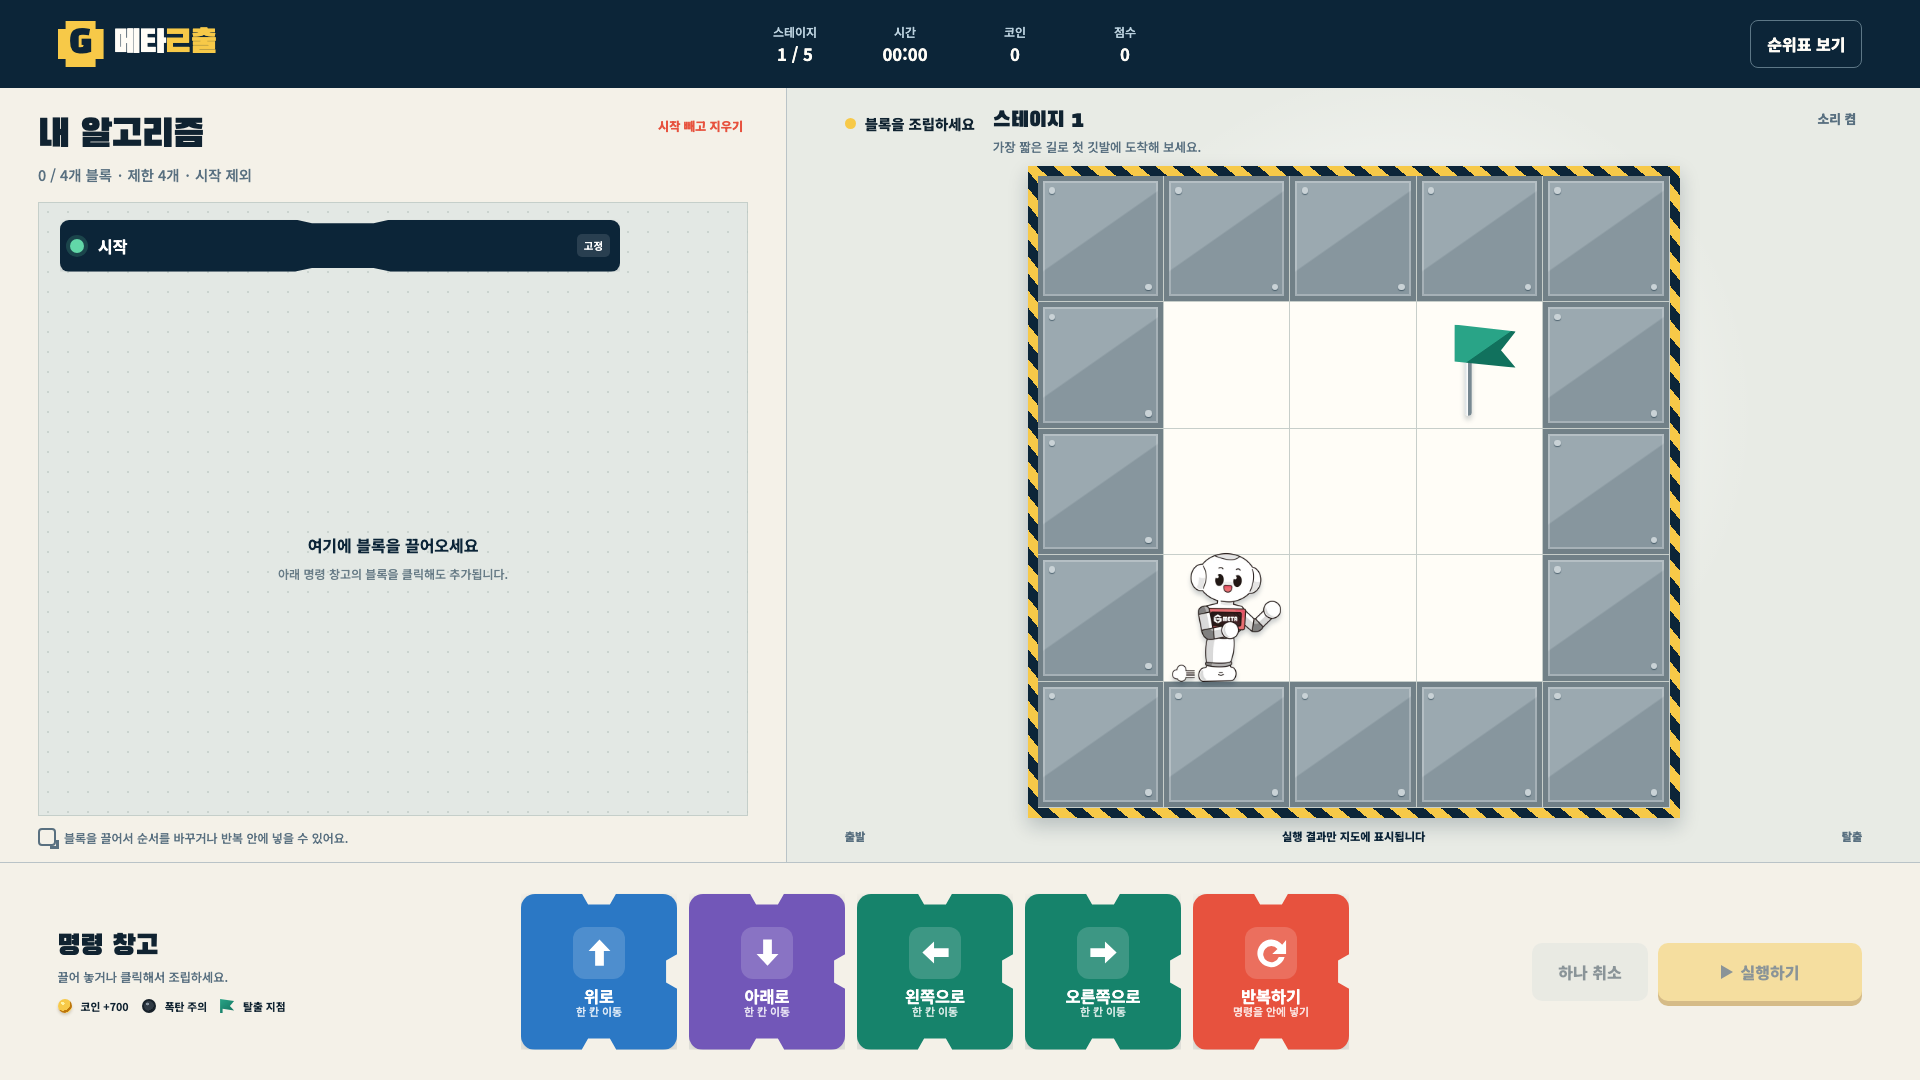
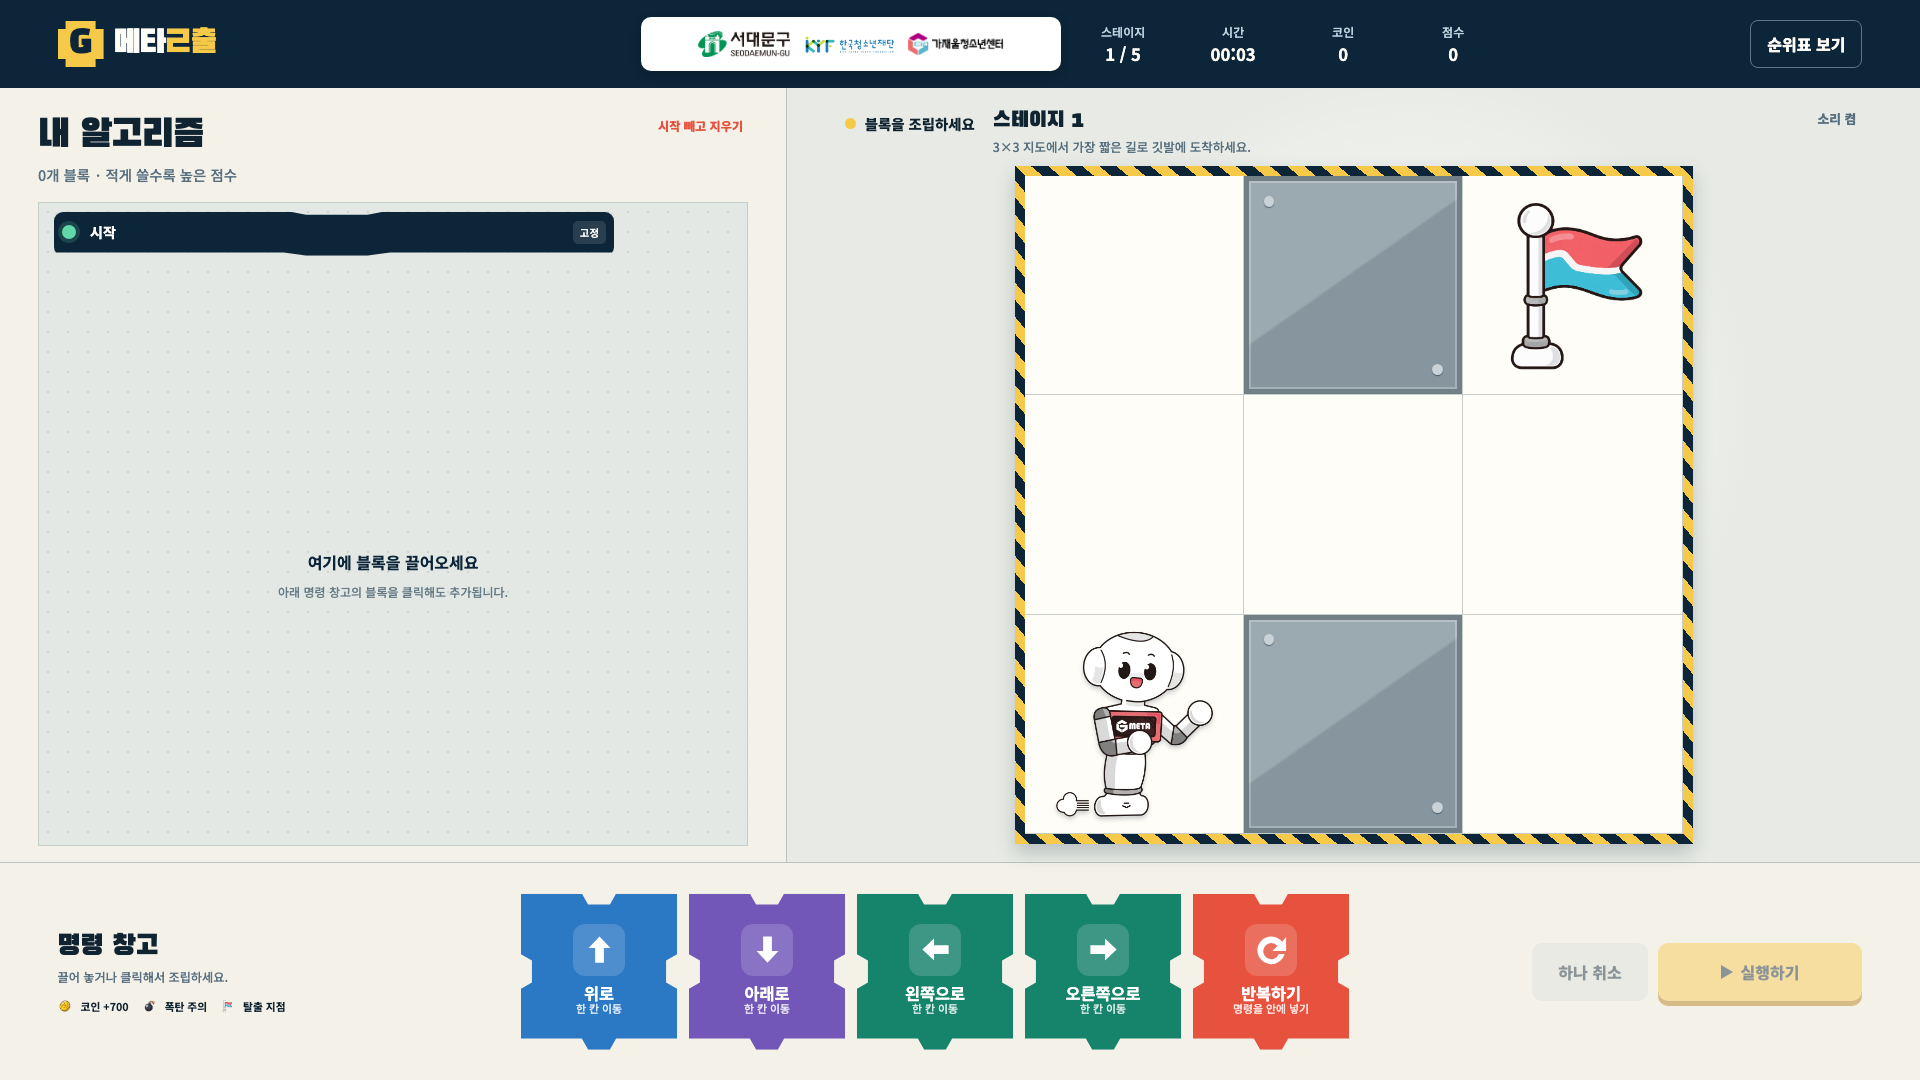
Remove stage block limits

diff --git a/public/game.html b/public/game.html
@@ -11,7 +11,7 @@ FINISH: unreviewed and undocumented is unfinished; this build ends with the fini
 -->
 <header class="scorebar"><a class="brand" href="/" aria-label="G메타ㄹ출 메인으로"><span class="brand-mark" aria-hidden="true">G</span><span class="brand-wordmark" aria-hidden="true">메타<em>ㄹ출</em></span></a><div class="game-partners" aria-label="기관 로고"><img src="/assets/partners/seodaemun-gu.png" alt="서대문구"><img src="/assets/partners/korea-youth-foundation.png" alt="한국청소년재단"><img src="/assets/partners/gmeta-career-network.jpg" alt="G-META 가재울청소년센터"></div><div class="race-stats" aria-label="현재 경기 정보"><span><small>스테이지</small><strong id="stageLabel">1 / 5</strong></span><span><small>시간</small><strong id="timeLabel">00:00</strong></span><span><small>코인</small><strong id="coinLabel">0</strong></span><span><small>점수</small><strong id="scoreLabel">0</strong></span></div><button class="leader-button" id="leaderButton" type="button">순위표 보기</button></header>
 <main class="workspace coding-workspace">
-  <section class="program-panel" aria-labelledby="programTitle"><div class="program-head"><div><h1 id="programTitle">내 알고리즘</h1><p><span id="blockCount">0</span>개 블록 · <span id="limitText">제한 확인 중</span></p></div><button id="clearButton" class="text-button" type="button">시작 빼고 지우기</button></div><div class="coding-canvas"><ol id="programList" class="program-list" aria-live="polite" aria-label="알고리즘 조립 영역"></ol><p id="emptyProgram" class="empty-program"><strong>여기에 블록을 끌어오세요</strong><span>아래 명령 창고의 블록을 클릭해도 추가됩니다.</span></p></div></section>
+  <section class="program-panel" aria-labelledby="programTitle"><div class="program-head"><div><h1 id="programTitle">내 알고리즘</h1><p><span id="blockCount">0개</span> 블록 · <span id="limitText">적게 쓸수록 높은 점수</span></p></div><button id="clearButton" class="text-button" type="button">시작 빼고 지우기</button></div><div class="coding-canvas"><ol id="programList" class="program-list" aria-live="polite" aria-label="알고리즘 조립 영역"></ol><p id="emptyProgram" class="empty-program"><strong>여기에 블록을 끌어오세요</strong><span>아래 명령 창고의 블록을 클릭해도 추가됩니다.</span></p></div></section>
   <section class="map-panel" aria-label="게임 지도"><div class="map-topline"><div><span class="route-status"><i></i><span id="statusText">블록을 조립하세요</span></span><strong id="missionTitle">스테이지 1</strong><p id="missionText">가장 짧은 길로 첫 깃발에 도착해 보세요.</p></div><button class="sound-toggle" id="soundToggle" type="button" aria-pressed="true">소리 켬</button></div><div id="gameGrid" class="game-grid" role="grid" aria-label="폭탄과 코인이 있는 격자 지도"></div></section>
   <section class="command-bay command-dock" aria-labelledby="commandTitle"><div class="dock-heading"><h2 id="commandTitle">명령 창고</h2><p>끌어 놓거나 클릭해서 조립하세요.</p><div class="legend" aria-label="지도 기호"><span><i class="legend-coin"></i>코인 +700</span><span><i class="legend-bomb"></i>폭탄 주의</span><span><i class="legend-flag"></i>탈출 지점</span></div></div><div class="command-list"><button class="command move-up" data-move="up" draggable="true"><span class="command-icon" aria-hidden="true"><svg class="command-symbol" viewBox="0 0 48 48"><path d="M24 6 9 22h9v20h12V22h9L24 6Z"/></svg></span><span><b>위로</b><small>한 칸 이동</small></span></button><button class="command move-down" data-move="down" draggable="true"><span class="command-icon" aria-hidden="true"><svg class="command-symbol" viewBox="0 0 48 48"><path d="m24 42 15-16h-9V6H18v20H9l15 16Z"/></svg></span><span><b>아래로</b><small>한 칸 이동</small></span></button><button class="command move-left" data-move="left" draggable="true"><span class="command-icon" aria-hidden="true"><svg class="command-symbol" viewBox="0 0 48 48"><path d="M6 24 22 9v9h20v12H22v9L6 24Z"/></svg></span><span><b>왼쪽으로</b><small>한 칸 이동</small></span></button><button class="command move-right" data-move="right" draggable="true"><span class="command-icon" aria-hidden="true"><svg class="command-symbol" viewBox="0 0 48 48"><path d="m42 24-16-15v9H6v12h20v9l16-15Z"/></svg></span><span><b>오른쪽으로</b><small>한 칸 이동</small></span></button><button class="command repeat-command" id="repeatButton" draggable="true"><span class="command-icon repeat-icon-symbol" aria-hidden="true"><svg class="command-symbol repeat-symbol-svg" viewBox="0 0 48 48"><path d="M38.7 13.5A19 19 0 1 0 42 30h-8a11 11 0 1 1-1.8-10.7L25 26h19V7l-5.3 6.5Z"/></svg></span><span><b>반복하기</b><small>명령을 안에 넣기</small></span></button></div><div class="program-actions"><button id="undoButton" class="undo-button" type="button" disabled>하나 취소</button><button id="runButton" class="run-button" type="button" disabled><span class="play-mark" aria-hidden="true"></span>실행하기</button></div></section>
 </main>

diff --git a/public/app.js b/public/app.js
@@ -25,11 +25,6 @@ function expandProgram(){
   return result;
 }
 
-function canAdd(amount=1){
-  if(sourceBlockCount()+amount<=stage().limit)return true;
-  toast(`이 스테이지는 블록을 ${stage().limit}개까지만 쓸 수 있어요.`);return false;
-}
-
 function resetPlayer(){const[r,c]=stage().start;player={r,c};collected=new Set()}
 
 function renderGrid(){
@@ -88,7 +83,7 @@ function endDrag(event){
 
 function takeMove(payload){
   if(!payload)return null;
-  if(payload.origin==="palette")return payload.type==="move"&&canAdd()?{type:"move",dir:payload.dir}:null;
+  if(payload.origin==="palette")return payload.type==="move"?{type:"move",dir:payload.dir}:null;
   if(payload.origin==="program"){
     const node=program[payload.index];if(node?.type!=="move")return null;program.splice(payload.index,1);return node;
   }
@@ -102,7 +97,7 @@ function dropAtProgram(event,insertIndex){
   event.preventDefault();event.stopPropagation();const payload=readDrag(event);if(!payload||running)return endDrag();
   let node;
   if(payload.origin==="palette"){
-    if(!canAdd())return endDrag();node=payload.type==="repeat"?{type:"repeat",count:2,body:[]}:{type:"move",dir:payload.dir};
+    node=payload.type==="repeat"?{type:"repeat",count:2,body:[]}:{type:"move",dir:payload.dir};
   }else if(payload.origin==="program"){
     node=program[payload.index];if(!node)return endDrag();program.splice(payload.index,1);if(payload.index<insertIndex)insertIndex--;
   }else node=takeMove(payload);
@@ -169,14 +164,14 @@ function renderProgram(){
   programList.querySelectorAll(".repeat-head").forEach(head=>head.onclick=()=>{const node=program[Number(head.closest(".repeat-block").dataset.index)];openRepeat=openRepeat===node?null:node;renderProgram()});
 
   const used=sourceBlockCount(),valid=expandProgram().length>0&&!program.some(node=>node.type==="repeat"&&!node.body.length);
-  el("blockCount").textContent=`${used} / ${stage().limit}`;el("emptyProgram").hidden=program.length>0;
+  el("blockCount").textContent=`${used}개`;el("emptyProgram").hidden=program.length>0;
   el("runButton").disabled=!valid||running;el("undoButton").disabled=!program.length||running;
   el("repeatButton").classList.remove("active");el("repeatButton").querySelector("b").textContent="반복하기";
-  el("limitText").textContent=`제한 ${stage().limit}개 · 시작 제외`;
+  el("limitText").textContent="적게 쓸수록 높은 점수";
 }
 
-function addMove(dir){if(running||!canAdd())return;const move={type:"move",dir};if(openRepeat)openRepeat.body.push(move);else program.push(move);renderProgram();playSound("block")}
-function addRepeat(){if(running||!canAdd())return;openRepeat={type:"repeat",count:2,body:[]};program.push(openRepeat);renderProgram();playSound("block")}
+function addMove(dir){if(running)return;const move={type:"move",dir};if(openRepeat)openRepeat.body.push(move);else program.push(move);renderProgram();playSound("block")}
+function addRepeat(){if(running)return;openRepeat={type:"repeat",count:2,body:[]};program.push(openRepeat);renderProgram();playSound("block")}
 function setStatus(text,state=""){el("statusText").textContent=text;el("statusText").parentElement.className=`route-status ${state}`}
 function blocked(r,c){const current=stage();return r<0||c<0||r>=current.rows||c>=current.cols||current.walls.some(([a,b])=>a===r&&b===c)}
 

diff --git a/public/stages.js b/public/stages.js
@@ -5,9 +5,9 @@ const borderWalls = [
 ];
 
 export const stages = [
-  { title:"스테이지 1", text:"가장 짧은 길로 첫 깃발에 도착해 보세요.", limit:4, cols:5, rows:5, start:[3,1], flag:[1,3], walls:borderWalls, bombs:[], coins:[] },
-  { title:"스테이지 2", text:"폭탄을 피해 코인을 챙기고 깃발로 이동하세요.", limit:4, cols:5, rows:5, start:[3,1], flag:[1,2], walls:borderWalls, bombs:[[2,2]], coins:[[2,1]] },
-  { title:"스테이지 3", text:"세 코인을 잇는 안전한 지그재그 경로를 찾아보세요.", limit:6, cols:4, rows:4, start:[3,0], flag:[0,3], walls:[], bombs:[[0,1],[1,0]], coins:[[0,2],[1,1],[2,0]] },
-  { title:"스테이지 4", text:"반복 블록을 활용해 멀리 돌아가는 경로를 줄여보세요.", limit:8, cols:4, rows:4, start:[3,0], flag:[0,2], walls:[], bombs:[[1,1],[2,1],[2,3]], coins:[[0,0],[1,2],[3,1]] },
-  { title:"스테이지 5", text:"마지막 폭탄 지대를 돌파하고 코인과 함께 탈출하세요.", limit:10, cols:5, rows:5, start:[4,0], flag:[4,4], walls:[], bombs:[[1,1],[2,2],[3,3],[4,2]], coins:[[0,1],[0,4],[2,3]], note:"원본 배치에서 시작점 바로 위 폭탄은 탈출 경로 확보를 위해 제외했습니다." }
+  { title:"스테이지 1", text:"가장 짧은 길로 첫 깃발에 도착해 보세요.", idealBlocks:4, cols:5, rows:5, start:[3,1], flag:[1,3], walls:borderWalls, bombs:[], coins:[] },
+  { title:"스테이지 2", text:"폭탄을 피해 코인을 챙기고 깃발로 이동하세요.", idealBlocks:4, cols:5, rows:5, start:[3,1], flag:[1,2], walls:borderWalls, bombs:[[2,2]], coins:[[2,1]] },
+  { title:"스테이지 3", text:"세 코인을 잇는 안전한 지그재그 경로를 찾아보세요.", idealBlocks:6, cols:4, rows:4, start:[3,0], flag:[0,3], walls:[], bombs:[[0,1],[1,0]], coins:[[0,2],[1,1],[2,0]] },
+  { title:"스테이지 4", text:"반복 블록을 활용해 멀리 돌아가는 경로를 줄여보세요.", idealBlocks:8, cols:4, rows:4, start:[3,0], flag:[0,2], walls:[], bombs:[[1,1],[2,1],[2,3]], coins:[[0,0],[1,2],[3,1]] },
+  { title:"스테이지 5", text:"마지막 폭탄 지대를 돌파하고 코인과 함께 탈출하세요.", idealBlocks:10, cols:5, rows:5, start:[4,0], flag:[4,4], walls:[], bombs:[[1,1],[2,2],[3,3],[4,2]], coins:[[0,1],[0,4],[2,3]], note:"원본 배치에서 시작점 바로 위 폭탄은 탈출 경로 확보를 위해 제외했습니다." }
 ];

diff --git a/public/home.js b/public/home.js
@@ -23,6 +23,6 @@ stages.forEach((stage,index)=>{
     if(stage.start[0]===r&&stage.start[1]===c)cell.classList.add("start");
     board.append(cell);
   }
-  item.innerHTML=`<div class="ticket-label"><span>${index+1}</span><strong>${stage.title}</strong><small>최대 ${stage.limit}블록</small></div>`;
+  item.innerHTML=`<div class="ticket-label"><span>${index+1}</span><strong>${stage.title}</strong><small>최소 ${stage.idealBlocks}블록 도전</small></div>`;
   item.append(board);previews.append(item);
 });

diff --git a/HANDOFF.md b/HANDOFF.md
@@ -13,7 +13,7 @@
 - 명령 블록 클릭 추가 및 드래그 앤 드롭 지원
 - 명령 순서 변경과 반복 블록 내부 삽입 지원
 - ㄷ자 반복 블록과 2~6회 반복 횟수 조절 지원
-- 스테이지별 블록 개수 제한 적용
+- 스테이지별 블록 개수 제한 없이 자유롭게 조립 가능
 - 실제 실행 전 경로 미표시
 - 폭탄·벽 충돌, 코인 획득, 깃발 도착 판정 구현
 - 서버 재검증 기반 채점과 순위표 등록 구현
@@ -39,13 +39,13 @@
 
 ## 4. 스테이지 규칙
 
-| 스테이지 | 지도 | 블록 제한 | 주요 구성 |
+| 스테이지 | 지도 | 최소 블록 도전 | 주요 구성 |
 |---|---:|---:|---|
-| 1 | 중앙 3×3 + 외곽 벽, 전체 5×5 | 4 | 이동 학습 |
-| 2 | 중앙 3×3 + 외곽 벽, 전체 5×5 | 4 | 코인 1개, 폭탄 1개 |
-| 3 | 4×4 | 6 | 코인 3개, 폭탄 2개 |
-| 4 | 4×4 | 8 | 코인 3개, 폭탄 3개 |
-| 5 | 5×5 | 10 | 코인 3개, 폭탄 4개 |
+| 1 | 3×3 | 4 | 이동 학습 |
+| 2 | 3×3 | 5 | 코인 2개, 폭탄 1개 |
+| 3 | 5×5 | 4 | 코인 3개, 폭탄 2개 |
+| 4 | 5×5 | 5 | 코인 3개, 폭탄 3개 |
+| 5 | 7×7 | 7 | 코인 4개, 폭탄 5개 |
 
 배치는 [`public/stages.js`](public/stages.js)에서 수정합니다. 좌표는 `[행, 열]`이며 0부터 시작합니다.
 
@@ -120,7 +120,7 @@ npm run check
 
 ## 9. 운영 전 최종 확인 항목
 
-1. 최종 스테이지 배치와 블록 제한 확정
+1. 최종 스테이지 배치 확정
 2. 점수 공식과 코인 보너스 확정
 3. `data/scores.json` 초기화
 4. 행사 PC의 1920×1080 화면에서 브라우저 100% 배율 확인

diff --git a/README.md b/README.md
@@ -23,8 +23,8 @@ npm start
 - 명령 창고는 동일한 정사각형 블록과 브라우저에서 깨지지 않는 SVG 방향·반복 기호를 사용합니다.
 - ㄷ자 반복 블록 안에 방향 블록을 끼워 넣고 반복 횟수를 2~6회로 조절할 수 있습니다.
 - 실행 전 예상 경로는 지도에 표시하지 않으며, 실행 중인 블록과 실제 이동 결과만 보여줍니다.
-- 스테이지마다 시작 블록을 제외한 블록 개수 제한이 적용됩니다. 현재 제한은 `4, 4, 6, 8, 10`개입니다.
-- 명령 블록 수가 적고 완료 시간이 빠를수록 점수가 높습니다.
+- 스테이지별 블록 개수 제한은 없습니다.
+- 같은 경로라면 명령 블록을 적게 쓸수록 높은 점수를 받으며, 완료 시간도 점수에 반영됩니다.
 - 코인 하나마다 700점의 보너스를 받습니다.
 - 폭탄이나 벽에 닿은 실행은 실패하며 프로그램을 고쳐 다시 실행할 수 있습니다.
 - 5단계 완료 뒤에만 이름을 입력하고 순위표에 등록할 수 있습니다.
